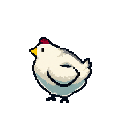
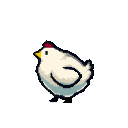
Replace chicken idle, run, and eating animations

Changed region(s): [[0.2188, 0.2812, 0.75, 0.8125]]

diff --git a/godot/tiny-swords/README.md b/godot/tiny-swords/README.md
@@ -8,6 +8,7 @@ Mac uses the function keys for system controls):
 
 | Scene | Starts with |
 | --- | --- |
+| `previews/chicken_run_sandbox.tscn` | Two chickens, two sheep, houses, trees, rocks, bushes, and a raised terrace reached by two stairs; fresh on every run. |
 | `previews/level_one.tscn` | Fresh level-one island and pawn; building/unlock control hidden. |
 | `previews/level_one_to_two.tscn` | Fresh level one. Click **Playground → Level +1** to run the real unlock, rewards and animated ribbon, then **Start building**. |
 | `previews/level_two.tscn` | Fresh intermediate level two: three ground tiles, one stair bundle and one chicken; toolbar open. |
@@ -1219,7 +1220,7 @@ Focused check: `res://tests/interaction_customization.gd`.
 Level two grants three grass tiles, one stair bundle and one chicken. Select Chicken in the inventory
 to place it on free grass; Pick up returns it to inventory. The CHICKEN4.0 animation
 sheets in `assets/chicken/` use 128×128 cells at 10 fps: six idle frames, twelve eating
-frames, and four run frames. The chicken alternates 2.4 seconds of idle with a complete
+frames, and six run frames. The idle, eating, and running sheets use the supplied replacement artwork. The chicken alternates 2.4 seconds of idle with a complete
 1.2-second pecking sequence. Two seconds after the pawn starts moving, it follows the shortest reachable
 route to a grass tile beside the pawn, updating its route as the pawn changes tiles.
 It stops one tile before the pawn and its routes avoid the pawn’s current tile.
